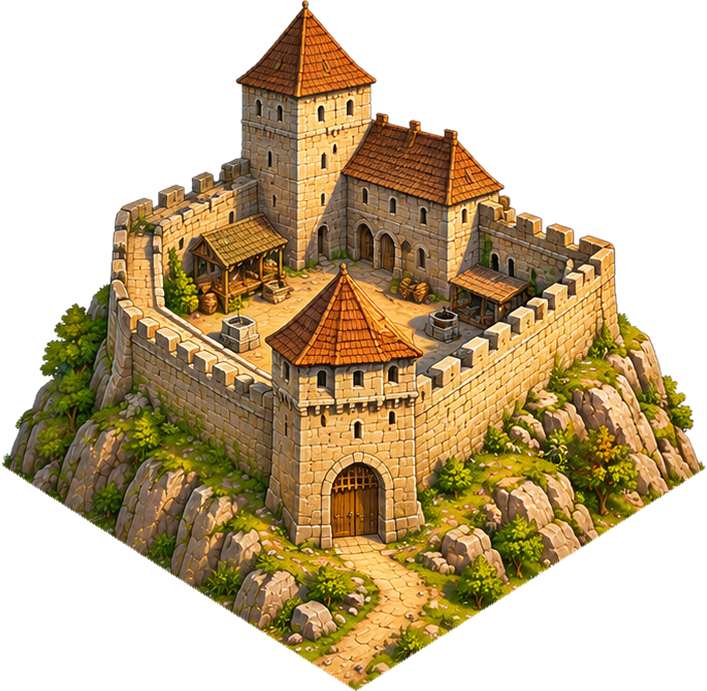
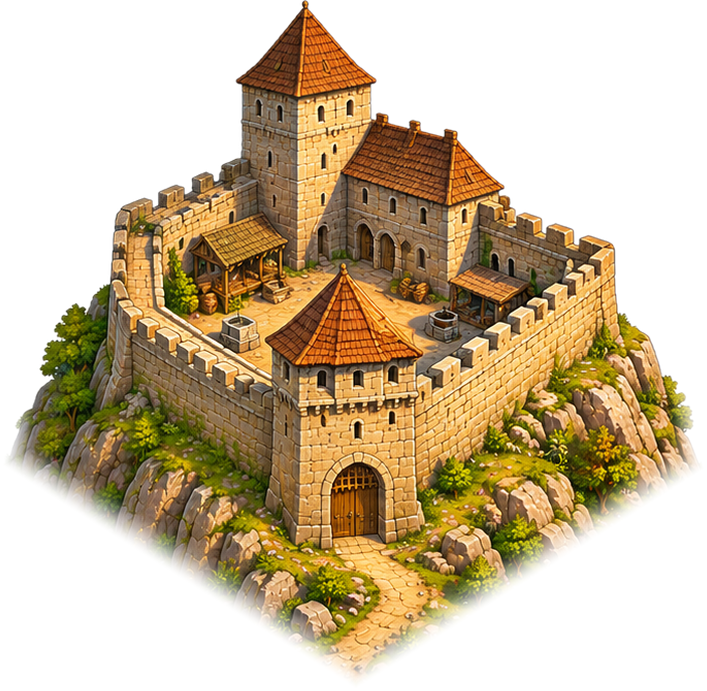
Visegrádi vár sziklája belesimul a tájba, puhább erdőirtás széle
Claude-Session: https://claude.ai/code/session_01TrxMZhgVc5kkxwtpbvR8se

Changed region(s): [[0.0, 0.547, 0.9958, 1.0]]

diff --git a/e05.html b/e05.html
@@ -872,7 +872,7 @@ function loadOne(n, tries = 0) {
     const im = new Image();
     im.onload = () => { if (im.naturalWidth) { IMG[n.replace(/\.(png|jpg|svg)$/, '')] = im; delete MASK[n.replace(/\.(png|jpg|svg)$/, '')]; roadCache = null; dirtPat = null; } res(); };
     im.onerror = () => { if (tries < 3) setTimeout(() => loadOne(n, tries + 1).then(res), 500 * (tries + 1)); else res(); };
-    im.src = 'img/' + n + '?v=2611112' + (tries ? '&r=' + tries + '-' + Date.now() : '');
+    im.src = 'img/' + n + '?v=2611201' + (tries ? '&r=' + tries + '-' + Date.now() : '');
   });
 }
 function loadImgs() { return Promise.all(imgNames.map(n => loadOne(n))); }
@@ -1884,7 +1884,7 @@ function buildClearLayer() {
   try { pat.setTransform(new DOMMatrix().scale(0.6)); } catch (e) {}
   if (emptyOk) { tg.drawImage(EMPTY, 0, 0, BGW, BGH); }
   else keys.forEach(k => { const o = OBST[k], p = OBST_P[k].pp; tg.fillStyle = pat; tg.fill(p); tg.save(); tg.clip(p); tg.globalAlpha = 0.38; tg.fillStyle = `rgb(${o.c[0]},${o.c[1]},${o.c[2]})`; tg.fill(p); tg.restore(); });
-  const msk = mk(), mg = msk.getContext('2d'); mg.filter = emptyOk ? 'blur(9px)' : 'blur(8px)'; mg.fillStyle = '#000'; keys.forEach(k => mg.fill(OBST_P[k].pp));
+  const msk = mk(), mg = msk.getContext('2d'); mg.filter = emptyOk ? 'blur(22px)' : 'blur(16px)'; mg.fillStyle = '#000'; keys.forEach(k => mg.fill(OBST_P[k].pp)); keys.forEach(k => mg.fill(OBST_P[k].pp));
   clearMask = msk; tg.globalCompositeOperation = 'destination-in'; tg.drawImage(msk, 0, 0);
   clearLayer = t; return t;
 }
@@ -3622,7 +3622,7 @@ const MINERS = { aranymoso: 10, vashamor1: 15, vashamor2: 20, vashamor3: 25, ara
     if (!keys.length) { clearLayer = null; return null; }
     const mk = () => { const c = document.createElement('canvas'); c.width = BGW; c.height = BGH; return c; };
     const t = mk(), tg = t.getContext('2d'); tg.drawImage(EMPTY, 0, 0, BGW, BGH);
-    const msk = mk(), mg = msk.getContext('2d'); mg.filter = 'blur(9px)'; mg.fillStyle = '#000'; keys.forEach(k => mg.fill(OBST_P[k].pp)); mg.filter = 'none';
+    const msk = mk(), mg = msk.getContext('2d'); mg.filter = 'blur(22px)'; mg.fillStyle = '#000'; keys.forEach(k => mg.fill(OBST_P[k].pp)); keys.forEach(k => mg.fill(OBST_P[k].pp)); mg.filter = 'none';
     mg.globalCompositeOperation = 'destination-in'; mg.filter = 'blur(6px)'; mg.drawImage(mi, 0, 0, BGW, BGH); mg.filter = 'none';
     clearMask = msk; tg.globalCompositeOperation = 'destination-in'; tg.drawImage(msk, 0, 0); clearLayer = t; return t;
   };
@@ -5840,7 +5840,7 @@ async function netLoadWall(id) {
 }
 // egy másik játékos városának rajza, a saját korszakának térképén
 const RIMG = {};
-function rimg(name, cb) { if (RIMG[name]) { if (RIMG[name].complete) cb(RIMG[name]); else RIMG[name].addEventListener('load', () => cb(RIMG[name])); return; } const im = new Image(); im.onload = () => cb(im); im.src = 'img/' + name + '?v=2611095'; RIMG[name] = im; }
+function rimg(name, cb) { if (RIMG[name]) { if (RIMG[name].complete) cb(RIMG[name]); else RIMG[name].addEventListener('load', () => cb(RIMG[name])); return; } const im = new Image(); im.onload = () => cb(im); im.src = 'img/' + name + '?v=2611201'; RIMG[name] = im; }
 function rmask(im) {
   if (im._m) return im._m; const c = document.createElement('canvas'); c.width = im.naturalWidth; c.height = im.naturalHeight; const g = c.getContext('2d'); g.drawImage(im, 0, 0);
   let d = null; try { d = g.getImageData(0, 0, c.width, c.height).data; } catch (e) {}

diff --git a/e04.html b/e04.html
@@ -858,7 +858,7 @@ function loadOne(n, tries = 0) {
     const im = new Image();
     im.onload = () => { if (im.naturalWidth) { IMG[n.replace(/\.(png|jpg|svg)$/, '')] = im; delete MASK[n.replace(/\.(png|jpg|svg)$/, '')]; roadCache = null; dirtPat = null; } res(); };
     im.onerror = () => { if (tries < 3) setTimeout(() => loadOne(n, tries + 1).then(res), 500 * (tries + 1)); else res(); };
-    im.src = 'img/' + n + '?v=2611112' + (tries ? '&r=' + tries + '-' + Date.now() : '');
+    im.src = 'img/' + n + '?v=2611201' + (tries ? '&r=' + tries + '-' + Date.now() : '');
   });
 }
 function loadImgs() { return Promise.all(imgNames.map(n => loadOne(n))); }
@@ -1870,7 +1870,7 @@ function buildClearLayer() {
   try { pat.setTransform(new DOMMatrix().scale(0.6)); } catch (e) {}
   if (emptyOk) { tg.drawImage(EMPTY, 0, 0, BGW, BGH); }
   else keys.forEach(k => { const o = OBST[k], p = OBST_P[k].pp; tg.fillStyle = pat; tg.fill(p); tg.save(); tg.clip(p); tg.globalAlpha = 0.38; tg.fillStyle = `rgb(${o.c[0]},${o.c[1]},${o.c[2]})`; tg.fill(p); tg.restore(); });
-  const msk = mk(), mg = msk.getContext('2d'); mg.filter = emptyOk ? 'blur(9px)' : 'blur(8px)'; mg.fillStyle = '#000'; keys.forEach(k => mg.fill(OBST_P[k].pp));
+  const msk = mk(), mg = msk.getContext('2d'); mg.filter = emptyOk ? 'blur(22px)' : 'blur(16px)'; mg.fillStyle = '#000'; keys.forEach(k => mg.fill(OBST_P[k].pp)); keys.forEach(k => mg.fill(OBST_P[k].pp));
   clearMask = msk; tg.globalCompositeOperation = 'destination-in'; tg.drawImage(msk, 0, 0);
   clearLayer = t; return t;
 }
@@ -5340,7 +5340,7 @@ async function netLoadWall(id) {
 }
 // egy másik játékos városának rajza, a saját korszakának térképén
 const RIMG = {};
-function rimg(name, cb) { if (RIMG[name]) { if (RIMG[name].complete) cb(RIMG[name]); else RIMG[name].addEventListener('load', () => cb(RIMG[name])); return; } const im = new Image(); im.onload = () => cb(im); im.src = 'img/' + name + '?v=2611095'; RIMG[name] = im; }
+function rimg(name, cb) { if (RIMG[name]) { if (RIMG[name].complete) cb(RIMG[name]); else RIMG[name].addEventListener('load', () => cb(RIMG[name])); return; } const im = new Image(); im.onload = () => cb(im); im.src = 'img/' + name + '?v=2611201'; RIMG[name] = im; }
 function rmask(im) {
   if (im._m) return im._m; const c = document.createElement('canvas'); c.width = im.naturalWidth; c.height = im.naturalHeight; const g = c.getContext('2d'); g.drawImage(im, 0, 0);
   let d = null; try { d = g.getImageData(0, 0, c.width, c.height).data; } catch (e) {}
